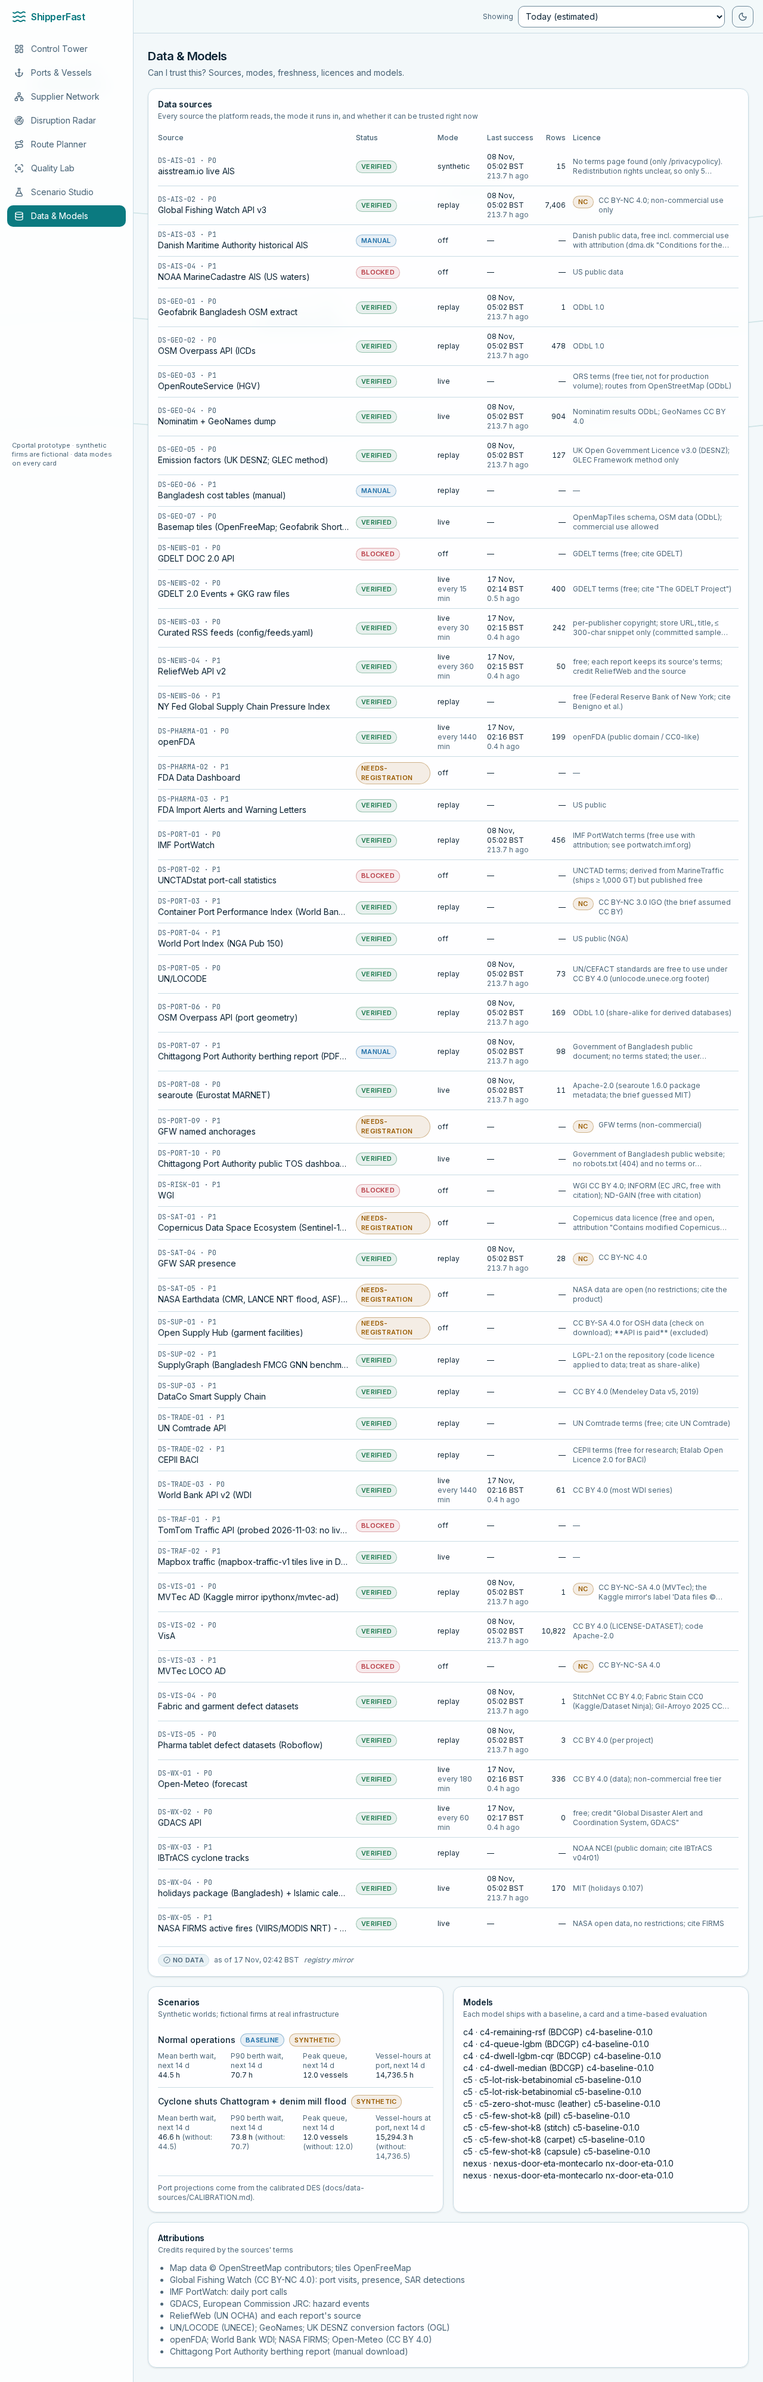
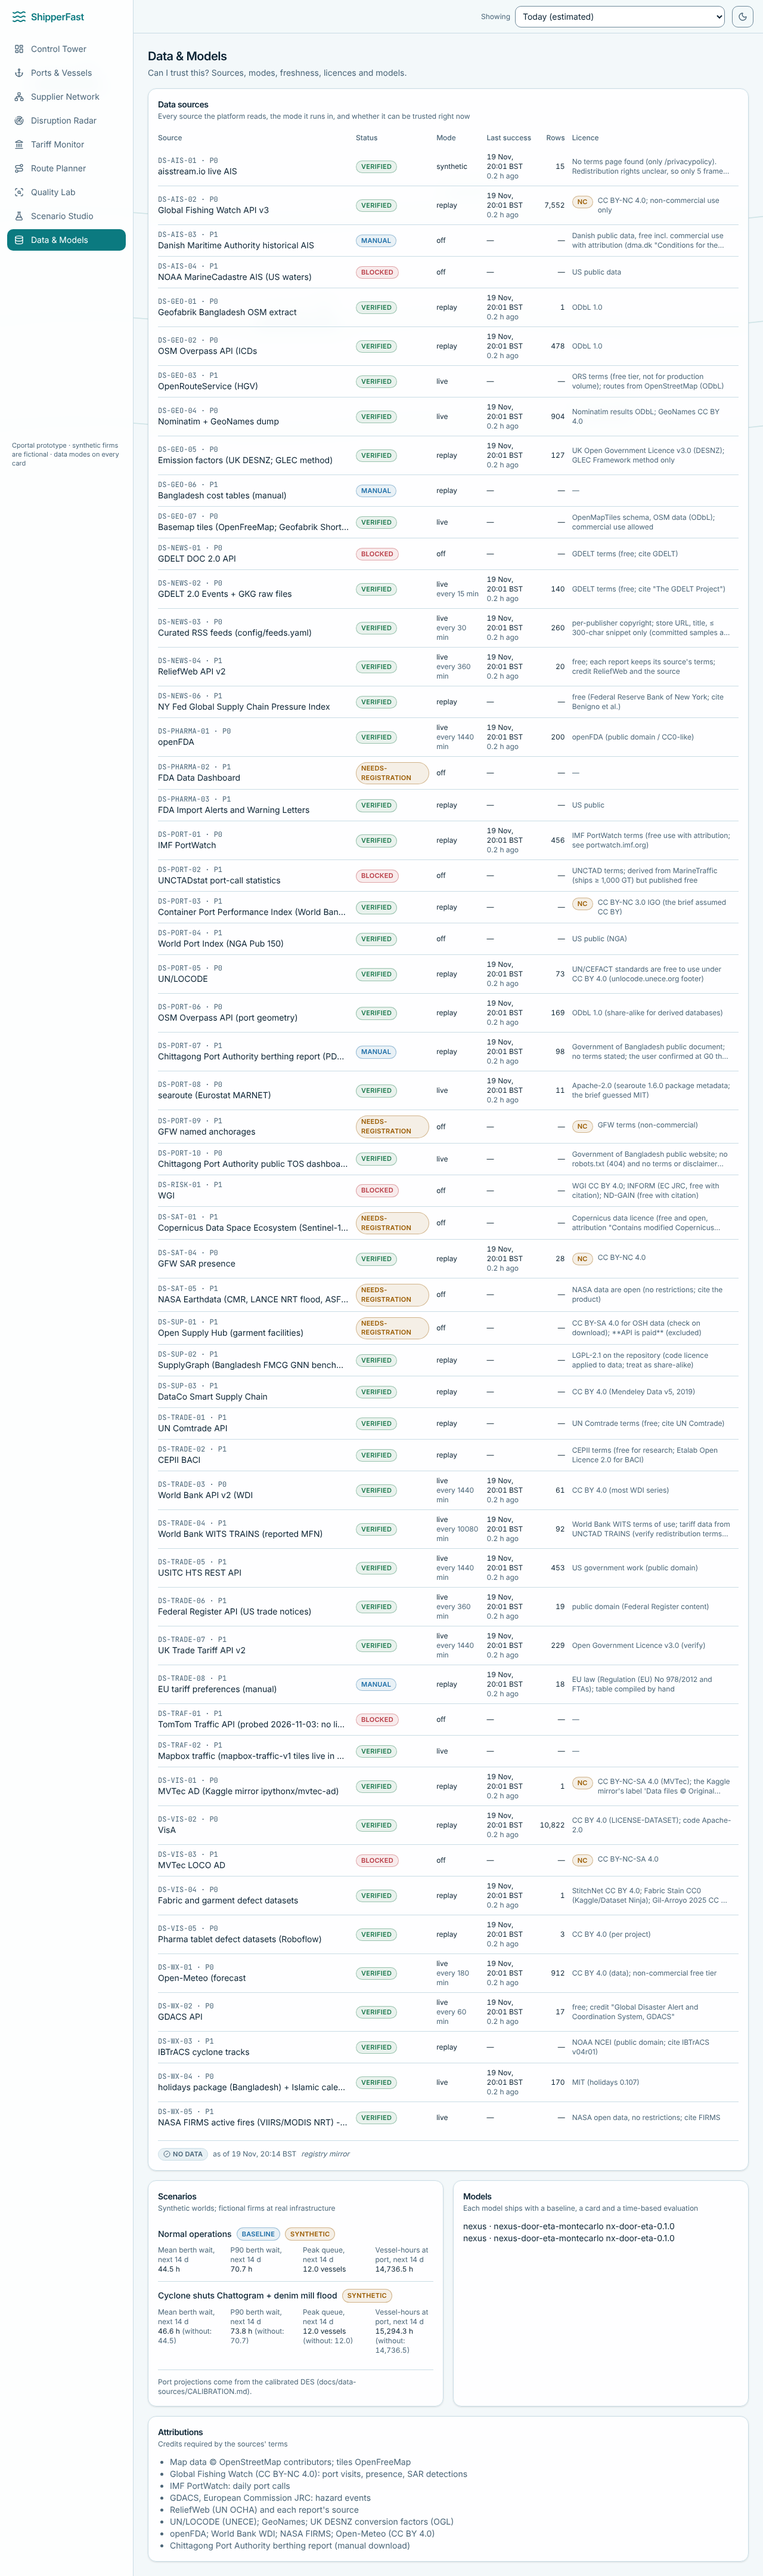
docs: C6 review resolution, Docker in a cloud session, status and decisions
- REVIEW_2026-11-19.md: verdict, fix commit and test per finding (13 real, 1 not)
- DEPLOY.md §6: the Docker demo does run in a cloud session, with the workaround
- STATUS.md, DECISIONS A-142..A-147; screenshots regenerated by the e2e run

diff --git a/docs/DECISIONS.md b/docs/DECISIONS.md
@@ -187,3 +187,9 @@ Settled user decisions D-01…D-10 live in the brief; architectural choices get 
 | 2026-11-18 | A-139 | UI decisions: depth ramp validated with the dataviz validator (ordinal, monotone, single hue, light end ≥ 2:1; ink ≥ 4.5:1 per tier; light 400→900, dark flipped and without #187789); "Free" is its own untinted tier; hatched cells = no single number; the matrix takes the full width below 1536 px (five market columns did not fit beside the activity card at 1280 px). Shared `Badge` fills made opaque (tone mixed into the surface): the translucent fill let the ocean backdrop drop the Live badge to 4.34:1 (axe, `/radar` and `/tariffs`) | ui-consistency checklist; axe | yes | no |
 | 2026-11-18 | A-140 | `?node=<id>` deep link on the Supplier Network (server loads the node's detail; the drawer opens): buyer nodes abroad are off the Bangladesh-framed map and in no leaderboard, so they had no keyboard path, and the T4 card had no testable path | Accessibility and testability | yes | no |
 | 2026-11-18 | A-141 | Dev-only environment notes: download.geofabrik.de reset every connection from this container (network policy unrestricted), so the road graph for local checks was built from the same OSM data via osmtoday.com (ODbL, gitignored raw zone, not committed); the Playwright browser here has no proxy route to tiles.openfreemap.org, so maps render without a basemap in the screenshots; CPA, C4 and C5 artefacts are absent here, so 5 existing e2e tests (Control Tower real data, Ports, Quality Lab ×2, golden step 7) fail for missing data, unrelated to this work | Verification run | yes | no |
+| 2026-11-19 | A-142 | C6 rate bounds: `tariff_effective_rate.lower_pct` and `upper_pct` (nullable; migration `27e412aef409`). An unreadable preference gives an upper bound; an unreadable or possibly exempted surcharge gives a lower bound; the UI prints ≥, ≤, a range or "varies", never MFN as a floor | Review 2026-11-19 #1: "≥ 12 %" was shown where an LDC may pay 0 %; precomputed so the matrix stays one query | yes (drop columns) | no (fix of a confirmed defect) |
+| 2026-11-19 | A-143 | Parser version `c6-parsers-3`: UK excluded countries stored as ISO3 and honoured; EU refs by rule scope (`EU-EBA:*:ex…`); EU snapshot ids include the content hash, and equal fetch times are ordered by `updated_at` | Review #3 and #6; the version bump re-baselines, so the changed content is not read as tariff changes | yes | no |
+| 2026-11-19 | A-144 | Change deltas only for additive rules (MFN for all, column 2, surcharges) and changed preference rates; an added or removed preference, quota, suspension, remedy or exemption has no delta, and its direction comes from its kind | Review #2: adding a preference was scored as a raise | yes | no |
+| 2026-11-19 | A-145 | Robustness: empty snapshots are ignored; `/matrix`, `/products` and `/changes` reject unwatched codes (422); 30 days of precomputed rates are kept; `LiveHttp` retries 429/502/503/504 twice (Retry-After capped at 30 s, else 1 s, 2 s) | Review #5, #11, #14: mass "removed" changes from one bad fetch, CPU amplification, about 280 MB a year on Neon, AGENTS rule 2 | yes | no |
+| 2026-11-19 | A-146 | EU table: Cambodia's EBA for chapters 17, 42, 61, 62 and 64 is unresolved (group `EU-EBA-KHM-2020`, Reg. (EU) 2020/550) instead of Free; `verify: true` until modelled per line | Review #14: a guessed 0 % breaks the never-guess rule | yes | no |
+| 2026-11-19 | A-147 | Dev-only: the Docker demo runs in this cloud container with local Dockerfile copies (proxy CA, apt over HTTPS, `--network host`, `--pull=false`) and `CPORTAL_LIVE=0`; details in `docs/DEPLOY.md` §6. Nothing committed for it | The repo's Dockerfiles stay as they are for real machines and Render | yes | no |

diff --git a/docs/tariffs/REVIEW_2026-11-19.md b/docs/tariffs/REVIEW_2026-11-19.md
@@ -7,7 +7,7 @@ This review was read-only. The C6, parser and C2-signal test suites pass; the da
 - a second reader checked the code (marked †);
 - or the bug is plain from the code.
 
-None of these are fixed yet. **Fix them in the order of the "Priority" column.**
+**Status (2026-11-19, second session): all checked; 13 fixed with a test each, one not a defect.** Each fix is one commit; see the table below.
 
 | # | Pri | Finding | Where | Evidence |
 |---|---|---|---|---|
@@ -52,3 +52,32 @@ None of these are fixed yet. **Fix them in the order of the "Priority" column.**
 - **Rules the parser captures but the engine drops (#3, #12).**
 
 Suggested fix scope: #1–#4 and #8 are small (each under an hour, with tests). #5 to #7 and #9 are medium. #11 to #14 can wait until after the demo.
+
+
+## Resolution
+
+Each finding was first reproduced: by a failing test against the old code, or by reading the code where noted.
+
+| # | Verdict | Fix (commit) | Test |
+|---|---|---|---|
+| 1 | Real | `13b0438`: the engine gives lower and upper bounds (new nullable columns `lower_pct`/`upper_pct`, migration `27e412aef409`). The UI prints ≥, ≤, a range or "varies", never MFN as a floor. | 4 engine tests and an invariant over every sample cell |
+| 2 | Real (reproduced) | `805ed3d`: an added or removed preference, quota or exemption has no delta, and `diff.direction()` gives cut or raise from the kind. | 4 diff tests |
+| 3 | Real (the samples exclude India on 268 UK measures) | `09c80fa`: exclusions are stored as ISO3 and `_origin_applies` honours them; parser version `c6-parsers-3`. | engine and parser tests |
+| 4 | Real (failed before) | `9d4047b`: a filter that matches nothing returns an empty matrix. | both paths |
+| 5 | Real (525 → 238 current rules) | `5274ecd`: empty snapshots are skipped. | e2e |
+| 6 | Real (failed before) | `fad63b6`: EU refs come from the rule's scope; the snapshot id includes the content hash; ties are broken by `updated_at`. | parser and e2e tests |
+| 7 | Real | `e5fa92f`: bounded change query; HS6 and industry match; group membership. | 4 unit tests |
+| 8 | Real | `b44438c`: `as_of` filters schemes and surcharges; the badge comes from the rows. | API test |
+| 9 | Real (reproduced) | `4c5fdbb`: the nearest direction word wins; only a % attached to a tariff word is the rate; the origin wins over a quoted city. | 2 tests, plus the 48 existing ones |
+| 10 | Real | `86c8ce6`: no chart for an unknown base; honest labels. | tsc, eslint, Playwright |
+| 11 | Real | `8783495`: unwatched codes get a 422; a `since` without a time zone is read as UTC. | 6 API tests |
+| 12 | Real (failed before) | `1390ac4`: rules that apply to every origin are listed too. | engine test |
+| 13 | Real | `c6702f0`: an HTS line with no readable duty is kept as unresolved; a WITS NaN is never resolved. | 2 parser tests |
+| 14a | **Not a defect** | none: `write_tariff_news` rewrites the whole 60-day window, so a late article changes a story's id but cannot duplicate it, and nothing stores story ids. | — |
+| 14b | Real | `f7694b0`: `mfn_year` comes from the data. | API test |
+| 14c | Real | `1b6a0d3`: up to two decimals (2.75 % stays 2.75 %). | spot values |
+| 14d | Real | `ecab09f`: retries on 429/502/503/504 with Retry-After or 1 s then 2 s (AGENTS rule 2). | mock-transport test |
+| 14e | Real (about 280 MB a year on Neon) | `808c109`: 30 days of precomputed dates are kept. | e2e |
+| 14f | Real | `6cbaa56`: Cambodia's EBA chapters 17, 42, 61, 62 and 64 are unresolved (Reg. (EU) 2020/550), not Free. | parser and e2e tests |
+
+Also found while running the Docker demo: the `Dockerfile` did not install `packages/c6_tariffs`, so `make demo` and the Render build failed (`f2d63a2`).

diff --git a/docs/DEPLOY.md b/docs/DEPLOY.md
@@ -178,6 +178,7 @@ It can run part of it:
 | Python tests, lint and types (`make test`, `make lint`, `make type`) | **Yes.** `uv` is installed. Database tests need Postgres, and `make db-local` installs a user-level one (no Docker). |
 | Run the app (`make db-local`, `make seed`, `make api`, `make web`) and Playwright e2e with screenshots | **Yes.** Chromium is pre-installed. This is how the Tariff Monitor UI was verified. |
 | Real tariff and news feeds | Only if the environment's network allows those hosts. Otherwise replay mode uses the committed samples. |
-| `make demo` (Docker) | Usually **no**: cloud containers normally have no Docker daemon. Use the laptop path. |
-| Deploy to Neon, Render or Vercel | Needs the keys in that session (environment secrets, never chat) and network access to those hosts. Render's dashboard steps need a person. The refresh scripts need Docker, so they run on your machine. |
+| `make demo` (Docker) | **Yes, with a workaround** (verified 2026-11-19). The daemon is installed but stopped: start it with `dockerd &`. Builds cannot reach the network proxy or trust its certificate, and Debian mirrors use plain HTTP, which the proxy refuses. So build from local copies of the three Dockerfiles that copy `/root/.ccr/ca-bundle.crt` in, switch apt to HTTPS and pass `--network host --build-context ccr=/root/.ccr --build-arg HTTPS_PROXY=…`. Then `docker compose up -d --no-build` with `CPORTAL_LIVE=0`, because containers cannot reach the proxy either (replay only). If Docker Hub answers 429, add `--pull=false`. The C3 road graph needs `make road-graph` (the OSM extract in `data/raw/DS-GEO-01/`). |
+| Playwright in the session | The project pins a newer Playwright than the pre-installed browser. Use a local config that sets `launchOptions.executablePath: "/opt/pw-browsers/chromium"`, and run with `--trace off`. Map tiles need the internet, so the live-map idle check can time out. |
+| Deploy to Neon, Render or Vercel | Needs the keys in that session (environment secrets, never chat) and network access to those hosts. Render's dashboard steps need a person. The refresh scripts need Docker with network access, so run them on your machine. |
 | Check the deployed site | Yes, with Playwright, if the network allows the Vercel and Render hosts. |

diff --git a/docs/STATUS.md b/docs/STATUS.md
@@ -1,4 +1,22 @@
-# STATUS (updated 2026-11-18)
+# STATUS (updated 2026-11-19)
+
+C6 review fixes (2026-11-19; `docs/tariffs/REVIEW_2026-11-19.md`; A-142…A-147):
+- **All 14 review findings checked**: 13 real, fixed one per commit, each with a test that
+  failed before or reproduced the defect; 14a was not a defect. Highlights: unresolved cells show
+  real bounds (≥, ≤, range), never MFN as a floor; UK excluded countries honoured; empty fetches
+  ignored; news confirmation matches product and group origins; C2 signal direction and rate
+  fixed; Cambodia's partial EBA withdrawal no longer a guessed 0 %.
+- **Also fixed:** the `Dockerfile` did not install `packages/c6_tariffs`, so `make demo` and the
+  Render build failed (`f2d63a2`).
+- **Verified:** `make check` passes everything except one test that already failed before these
+  changes: `/api/v1/graph` p95 is 330–390 ms on this 4-CPU container, and it fails on the
+  commit before the fixes too. C1 code is unchanged. The Docker demo was built and run here
+  (DEPLOY.md §6): 11 of 11 tariff browser tests pass, and the smoke, accessibility and sources
+  tests pass apart from 4 that need data this container lacks (map tiles, the C4 GFW backfill,
+  the C5 image set), as already noted in A-141.
+- **Next:** push the bundle to `Rafee-M/sc_nexus` (this session cannot write to it); on the
+  hosted demo run `make cloud-tariffs` (new migration and parser version).
+
 
 Tariff Monitor UI (2026-11-18; Q-22…Q-26 approved; A-135…A-141; plan `docs/tariffs/UI_PLAN.md`):
 - **New page `/tariffs`** (nav "Tariff Monitor"): industry and compare chips, origin or market
